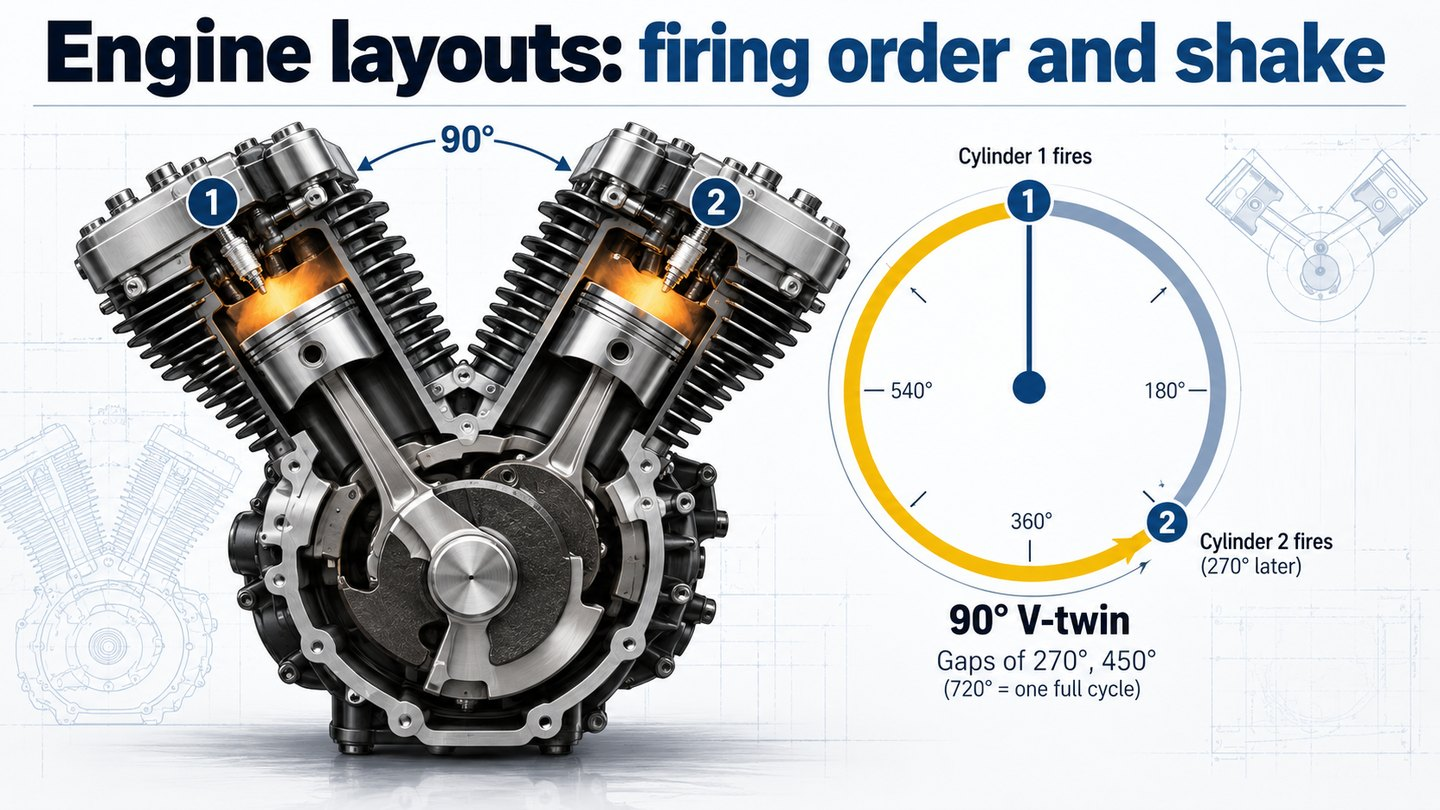
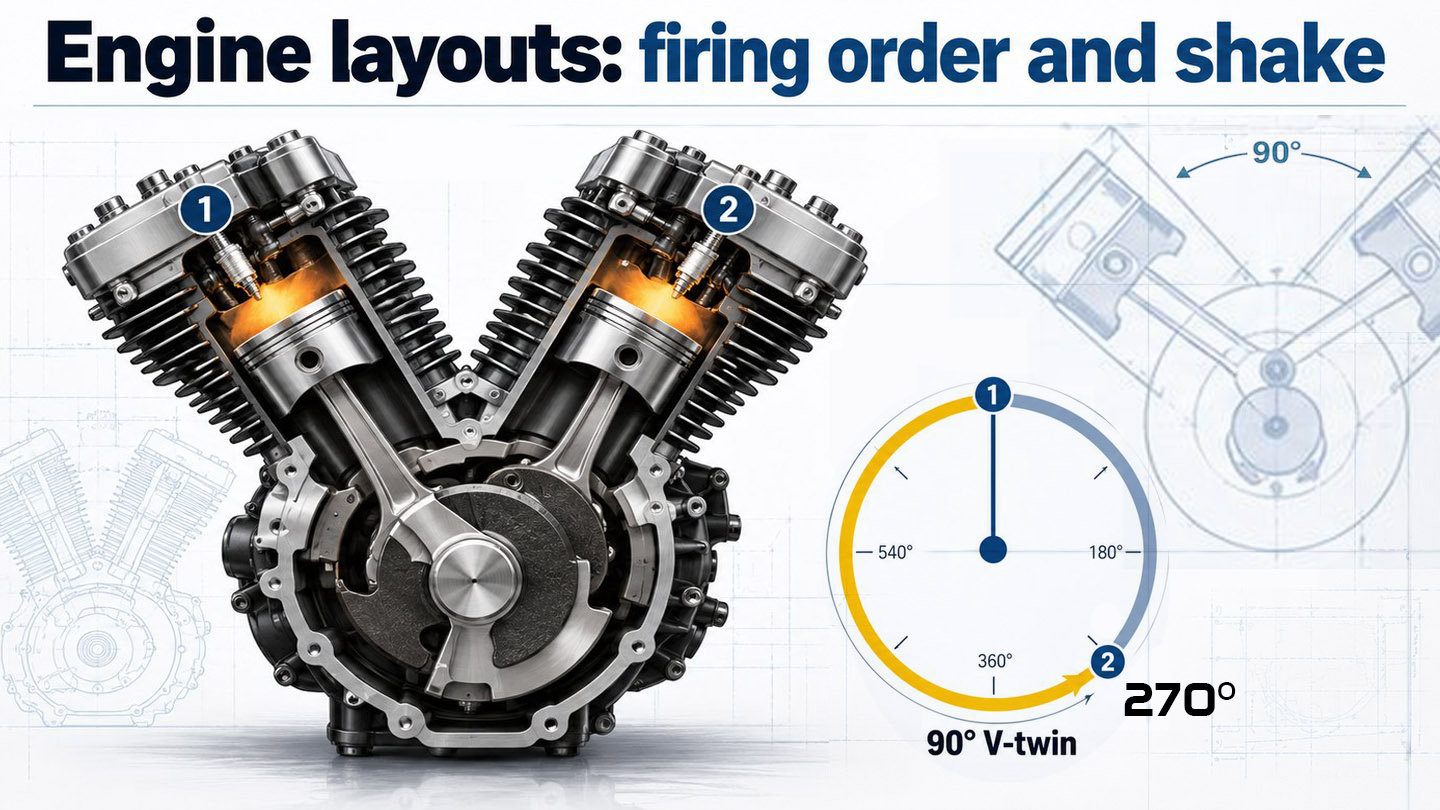
Updated Engine Layouts image

Changed region(s): [[0.0, 0.1543, 1.0, 0.9568], [0.2812, 0.1543, 0.375, 0.1852]]

diff --git a/index.html b/index.html
@@ -226,7 +226,7 @@
     <div>
       <h2>Nobody panics at the first kick</h2>
       <p>Every bike I learned on had a kick lever. No button, no fuss. Fold it out, give it your weight, and pray.</p>
-      <p>They almost never caught on the first kick, but nobody panics at the first one. It&rsquo;s the second that tells you what kind of day you&rsquo;re going to have. If it catches, the bike is happy and you&rsquo;re going for a ride. If it doesn&rsquo;t, your heart sinks a little, because now you&rsquo;re a mechanic instead of a rider, and that ride will have to wait.</p>
+      <p>They almost never caught on the first kick, but nobody panics at the first one. It&rsquo;s the second that tells you what kind of day you&rsquo;re going to have. If it catches, the bike is happy and you&rsquo;re going for a ride. If it doesn&rsquo;t, your heart sinks a little because now you&rsquo;re a mechanic, and that ride will have to wait.</p>
       <p class="pull">Life doesn’t always follow the path we planned, and sometimes it gives us an unexpected chance to start again. Second kickstart is about embracing that new beginning and seeing where the road leads.</p>
     </div>
   </div>
@@ -278,7 +278,7 @@
       <h2>Tank Bag</h2>
       <span class="note">Stories, explainers and the odd useful thing.</span>
     </div>
-    <p class="tbintro">On an adventure bike, the tank bag is where the good stuff rides: the map, the snacks, the tool you&rsquo;ll need later. This is the site&rsquo;s version.</p>
+    <p class="tbintro">The tank bag is where the good stuff rides: the map, the snacks, the tool you&rsquo;ll need later. This is the site&rsquo;s version.</p>
     <div class="storygrid">
       <a class="story" href="tank-bag/first-bike.html">
         <img src="img/brandon-yz100f.jpg" alt="" class="shot">
